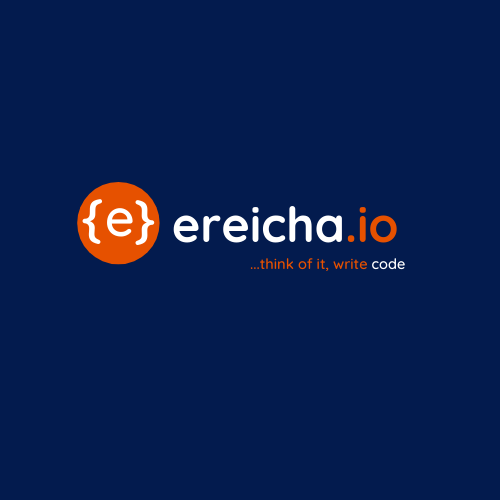
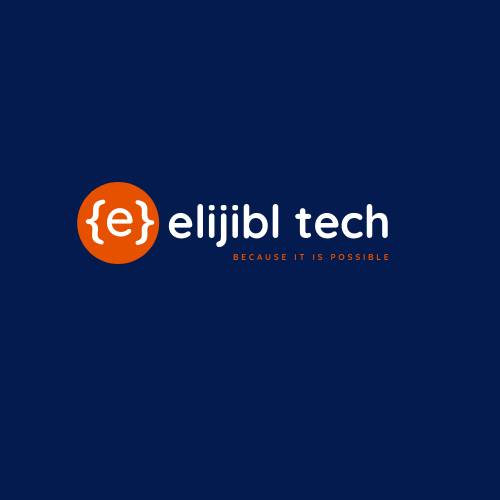
feat: rebranding changes

Changed region(s): [[0.33, 0.39, 0.81, 0.54], [0.15, 0.39, 0.21, 0.51]]

diff --git a/index.html b/index.html
@@ -16,7 +16,7 @@
         <header class="l-header">
             <nav class="nav bd-grid">
                 <div>
-                    <a href="#home" class="nav__logo"><b>_ereicha.io</b>👨💻</a>
+                    <a href="#home" class="nav__logo"><b>_elijibl tech</b>👨💻</a>
                 </div>
 
                 <div class="nav__menu" id="nav-menu">
@@ -46,8 +46,8 @@
 
                 <div class="home__social">
                     <a href="https://www.linkedin.com/in/elijah-ndung-u-472980192/" class="home__social-icon"><i class='bx bxl-linkedin'></i></a>
-                    <a href="https://twitter.com/_ereicha" class="home__social-icon"><i class='bx bxl-twitter' ></i></a>
-                    <a href="https://github.com/ereicha" class="home__social-icon"><i class='bx bxl-github' ></i></a>
+                    <a href="https://twitter.com/_elijibltech" class="home__social-icon"><i class='bx bxl-twitter' ></i></a>
+                    <a href="https://github.com/elijibltech" class="home__social-icon"><i class='bx bxl-github' ></i></a>
                     <a href="https://join.skype.com/invite/aErYcPImnLJW" class="home__social-icon"><i class='bx bxl-skype' ></i></a>
 
                 </div>
@@ -260,12 +260,12 @@
 
         <!--===== FOOTER =====-->
         <footer class="footer">
-            <p class="footer__title">_elijah _ndung'u</p>
+            <p class="footer__title">_elijibl tech</p>
 
             <div class="footer__social">
                 <a href="https://www.linkedin.com/in/elijah-ndung-u-472980192/" class="footer__icon"><i class='bx bxl-linkedin' ></i></a>
-                <a href="https://twitter.com/_ereicha" class="footer__icon"><i class='bx bxl-twitter' ></i></a>
-                <a href="https://github.com/ereicha" class="footer__icon"><i class='bx bxl-github' ></i></a>
+                <a href="https://twitter.com/_elijibltech" class="footer__icon"><i class='bx bxl-twitter' ></i></a>
+                <a href="https://github.com/elijibltech" class="footer__icon"><i class='bx bxl-github' ></i></a>
                 <a href="https://join.skype.com/invite/aErYcPImnLJW" class="footer__icon"><i class='bx bxl-skype' ></i></a>
 
             </div>
